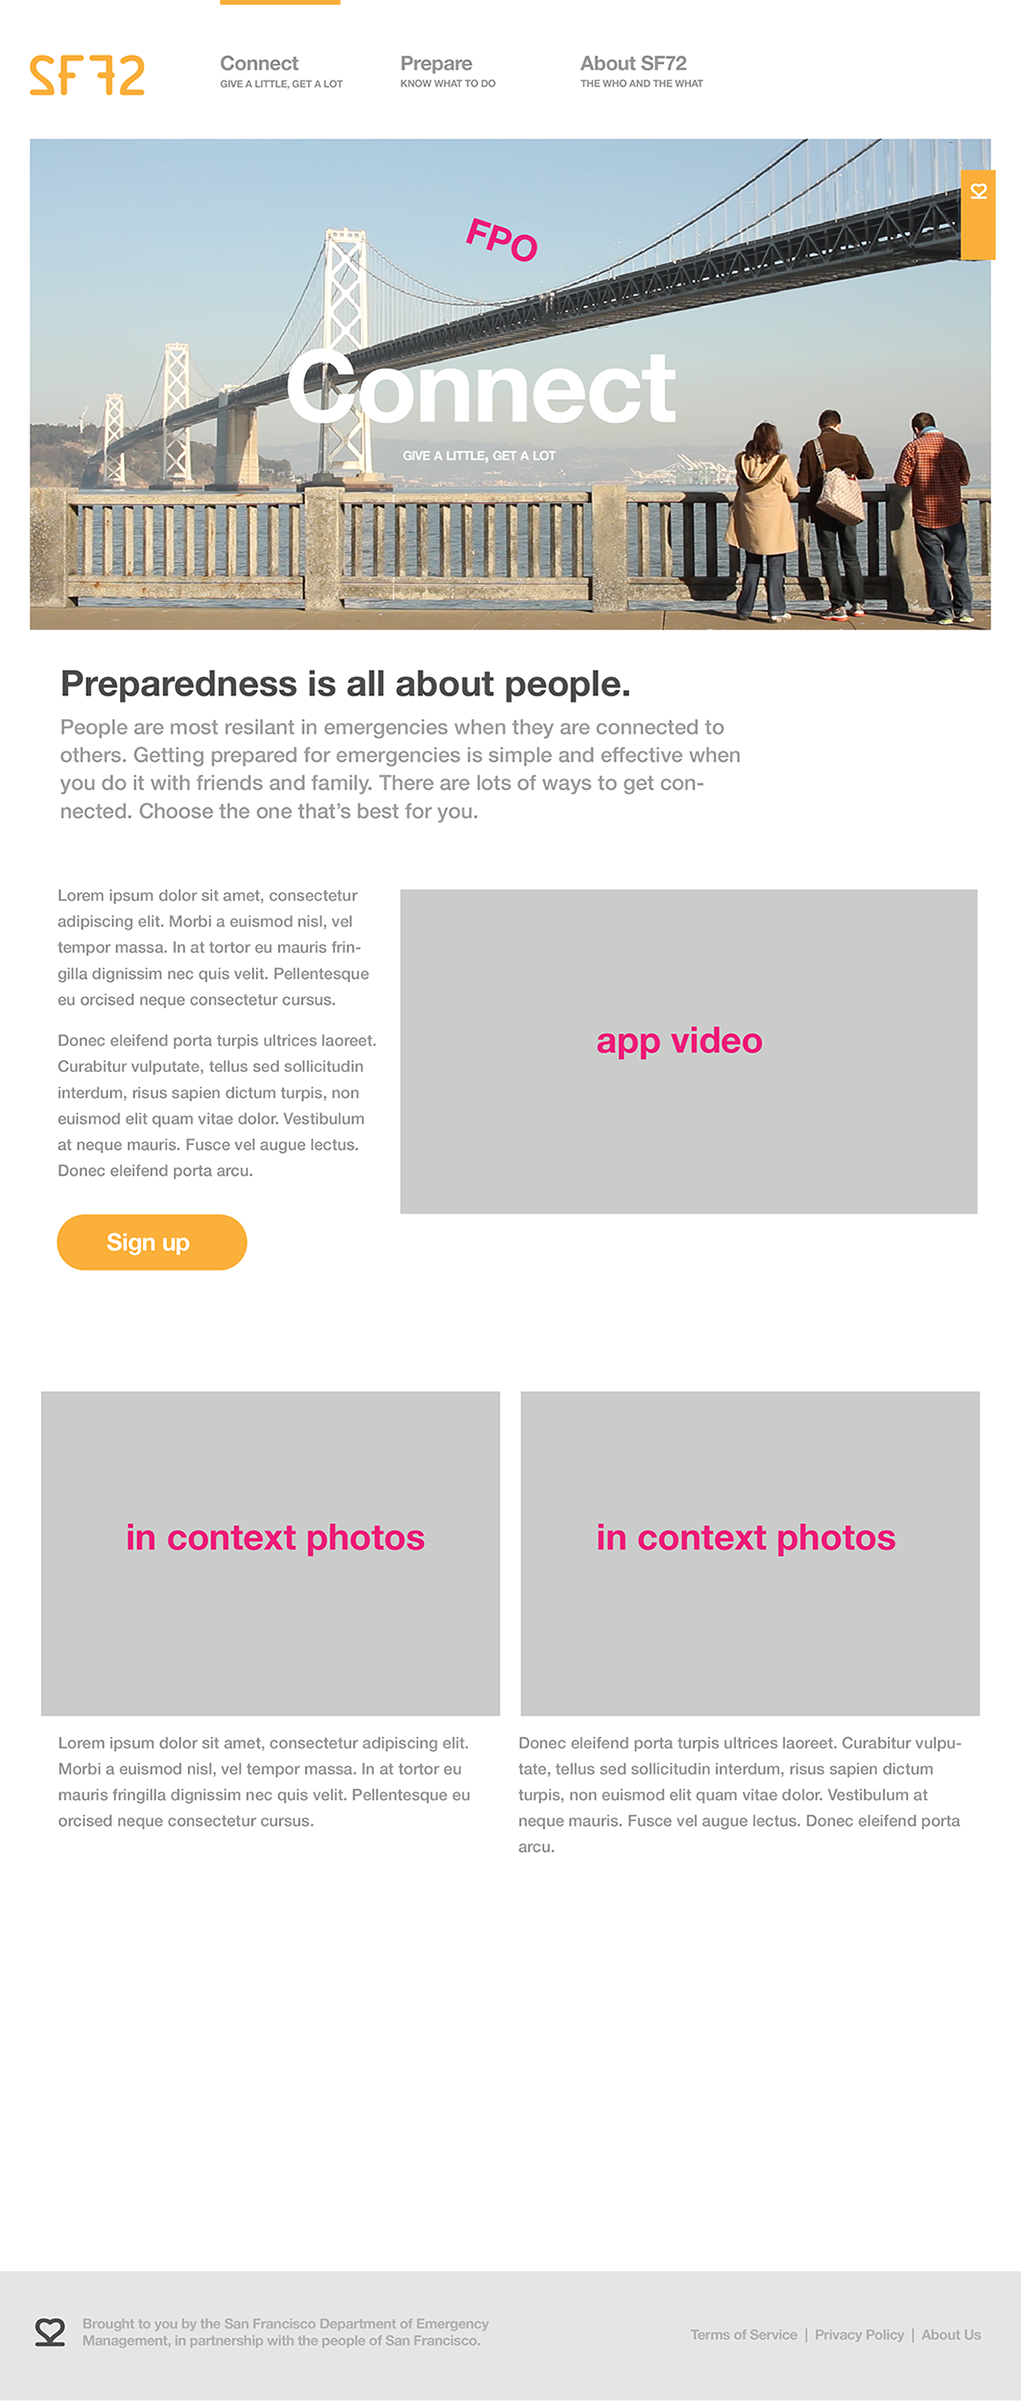
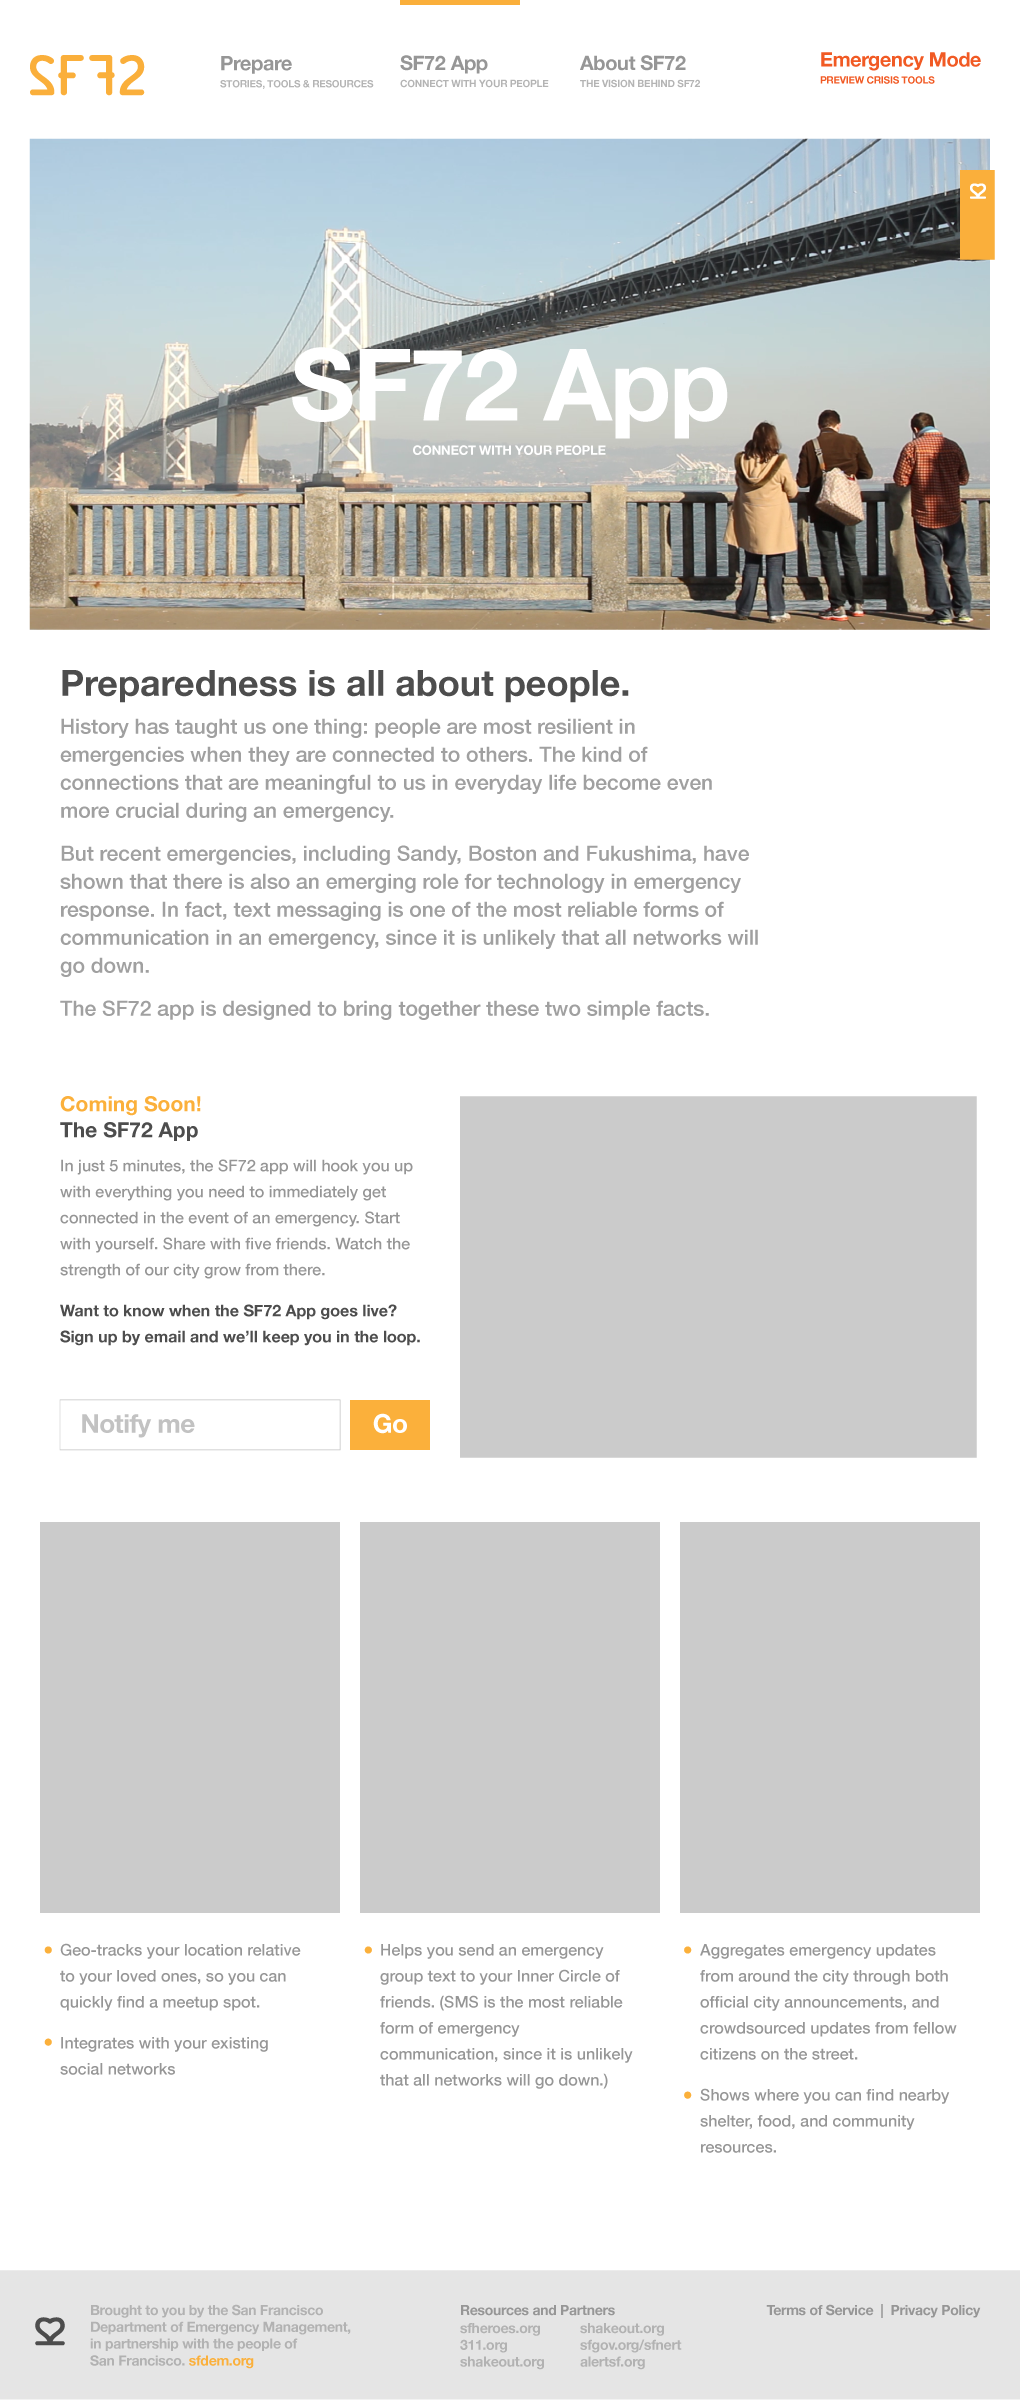
Connect content updated. Adding styles for header "Emergency Mode" link

diff --git a/app/assets/stylesheets/application.scss b/app/assets/stylesheets/application.scss
@@ -86,6 +86,7 @@ body {
 /* HEADER */
 .header {
 	@include outer-container;
+	position: relative;
 }
 
 .logo {
@@ -153,6 +154,17 @@ body {
 	li.active, li:hover {
 		a {
       		color: $highlight;
+		}
+	}
+
+	li.em-link {
+		position: absolute;
+		top: -0.1rem;
+		right: 0.5rem;
+		width: auto;
+
+		a {
+			color: $highlight-dark;
 		}
 	}
 
@@ -454,7 +466,7 @@ body {
 }
 
 .page-intro p {
-	margin: 0.1rem 0 2.5rem 1.8rem;
+	margin: 0.1rem 0 1rem 1.8rem;
 	line-height: 1.35;
 	width: 43rem;
 	font-size: 1.3rem;
@@ -833,11 +845,6 @@ body {
 	@include outer-container;
 }
 
-.app-details {
-	@include span-columns(4.5);
-	padding-left: 1.8rem;
-}
-
 .btn-rounded {
 	margin-top: 0.9rem;
 	font-size: 1.5rem;
@@ -855,26 +862,89 @@ body {
 	background-color: $dark-grey;
 }
 
-.app-video {
-	@include span-columns(7.5);
-	width: 60.4%;
-	height: 324px;
-	margin-top: 1.5rem;
-	background: $light-grey url(http://placekitten.com/580/325/) no-repeat top left;
-}
-
-.in-context {
-	@include outer-container;
-	margin-top: 7.7rem;
-}
-
-.in-context li {
-	@include span-columns(6)
-}
-
-.in-context p{
+.app-title {
 	margin-left: 1.8rem;
-	margin-top: 0.4rem;
+
+	h3 {
+		line-height: 1;
+		font-size: 1.31rem;
+		color: $dark-grey;
+		margin: 0.4rem 0 1rem;
+	}
+
+	.coming-soon {
+		margin:3.3rem 0 0;
+		color: $highlight;
+	}
+}
+
+.app-video {
+	float: right;
+	width: 516px;
+	height: 361px;
+	margin: -3.95rem 0.9rem 0 0;
+	background: $light-grey url(http://placekitten.com/516/361/) no-repeat top left;
+}
+
+.app-details {
+	@include span-columns(4.9);
+	padding-left: 1.8rem;
+	
+	p {
+		margin: 0 0 1rem;
+		line-height: 1.6;
+	}
+
+	strong {
+		font-weight: normal;
+		font-family: $font-medium;
+		color: $dark-grey;
+	}
+}
+
+.subscribe-form {
+	margin-top: 2.8rem;
+
+	.email {
+		width: 17.7rem;
+		border: 2px solid #EEE;
+		font-size: 1.5rem;
+		padding: 0.6rem 1.1rem;
+	}
+	
+	.submit {
+		margin: 0 -1.5rem 0 0.3rem;
+		padding: 0.7rem 1.5rem;
+		background-color: #FFA500;
+		border: none;
+		color: #FFF;
+		font-size: 1.5rem;
+		cursor: pointer;
+	}
+
+	.submit:hover {
+		background-color: $dark-grey;
+	}
+
+}
+
+.app-features {
+	@include outer-container;
+	margin-top: 4.1rem;
+}
+
+.app-features > li {
+	@include span-columns(4)
+}
+
+.features-detail{
+	margin-left: 1.8rem;
+	margin-top: 1.1rem;
+
+	li {
+		list-style-type: disc;
+		margin-bottom: 1rem;
+	}
 }
 
 /* PREPARE */

diff --git a/app/assets/stylesheets/mobile.scss b/app/assets/stylesheets/mobile.scss
@@ -234,7 +234,7 @@
 		height: 226px;
 	} 
 
-	.in-context {
+	.app-features {
 		li { 
 			@include span-columns(4);
 
